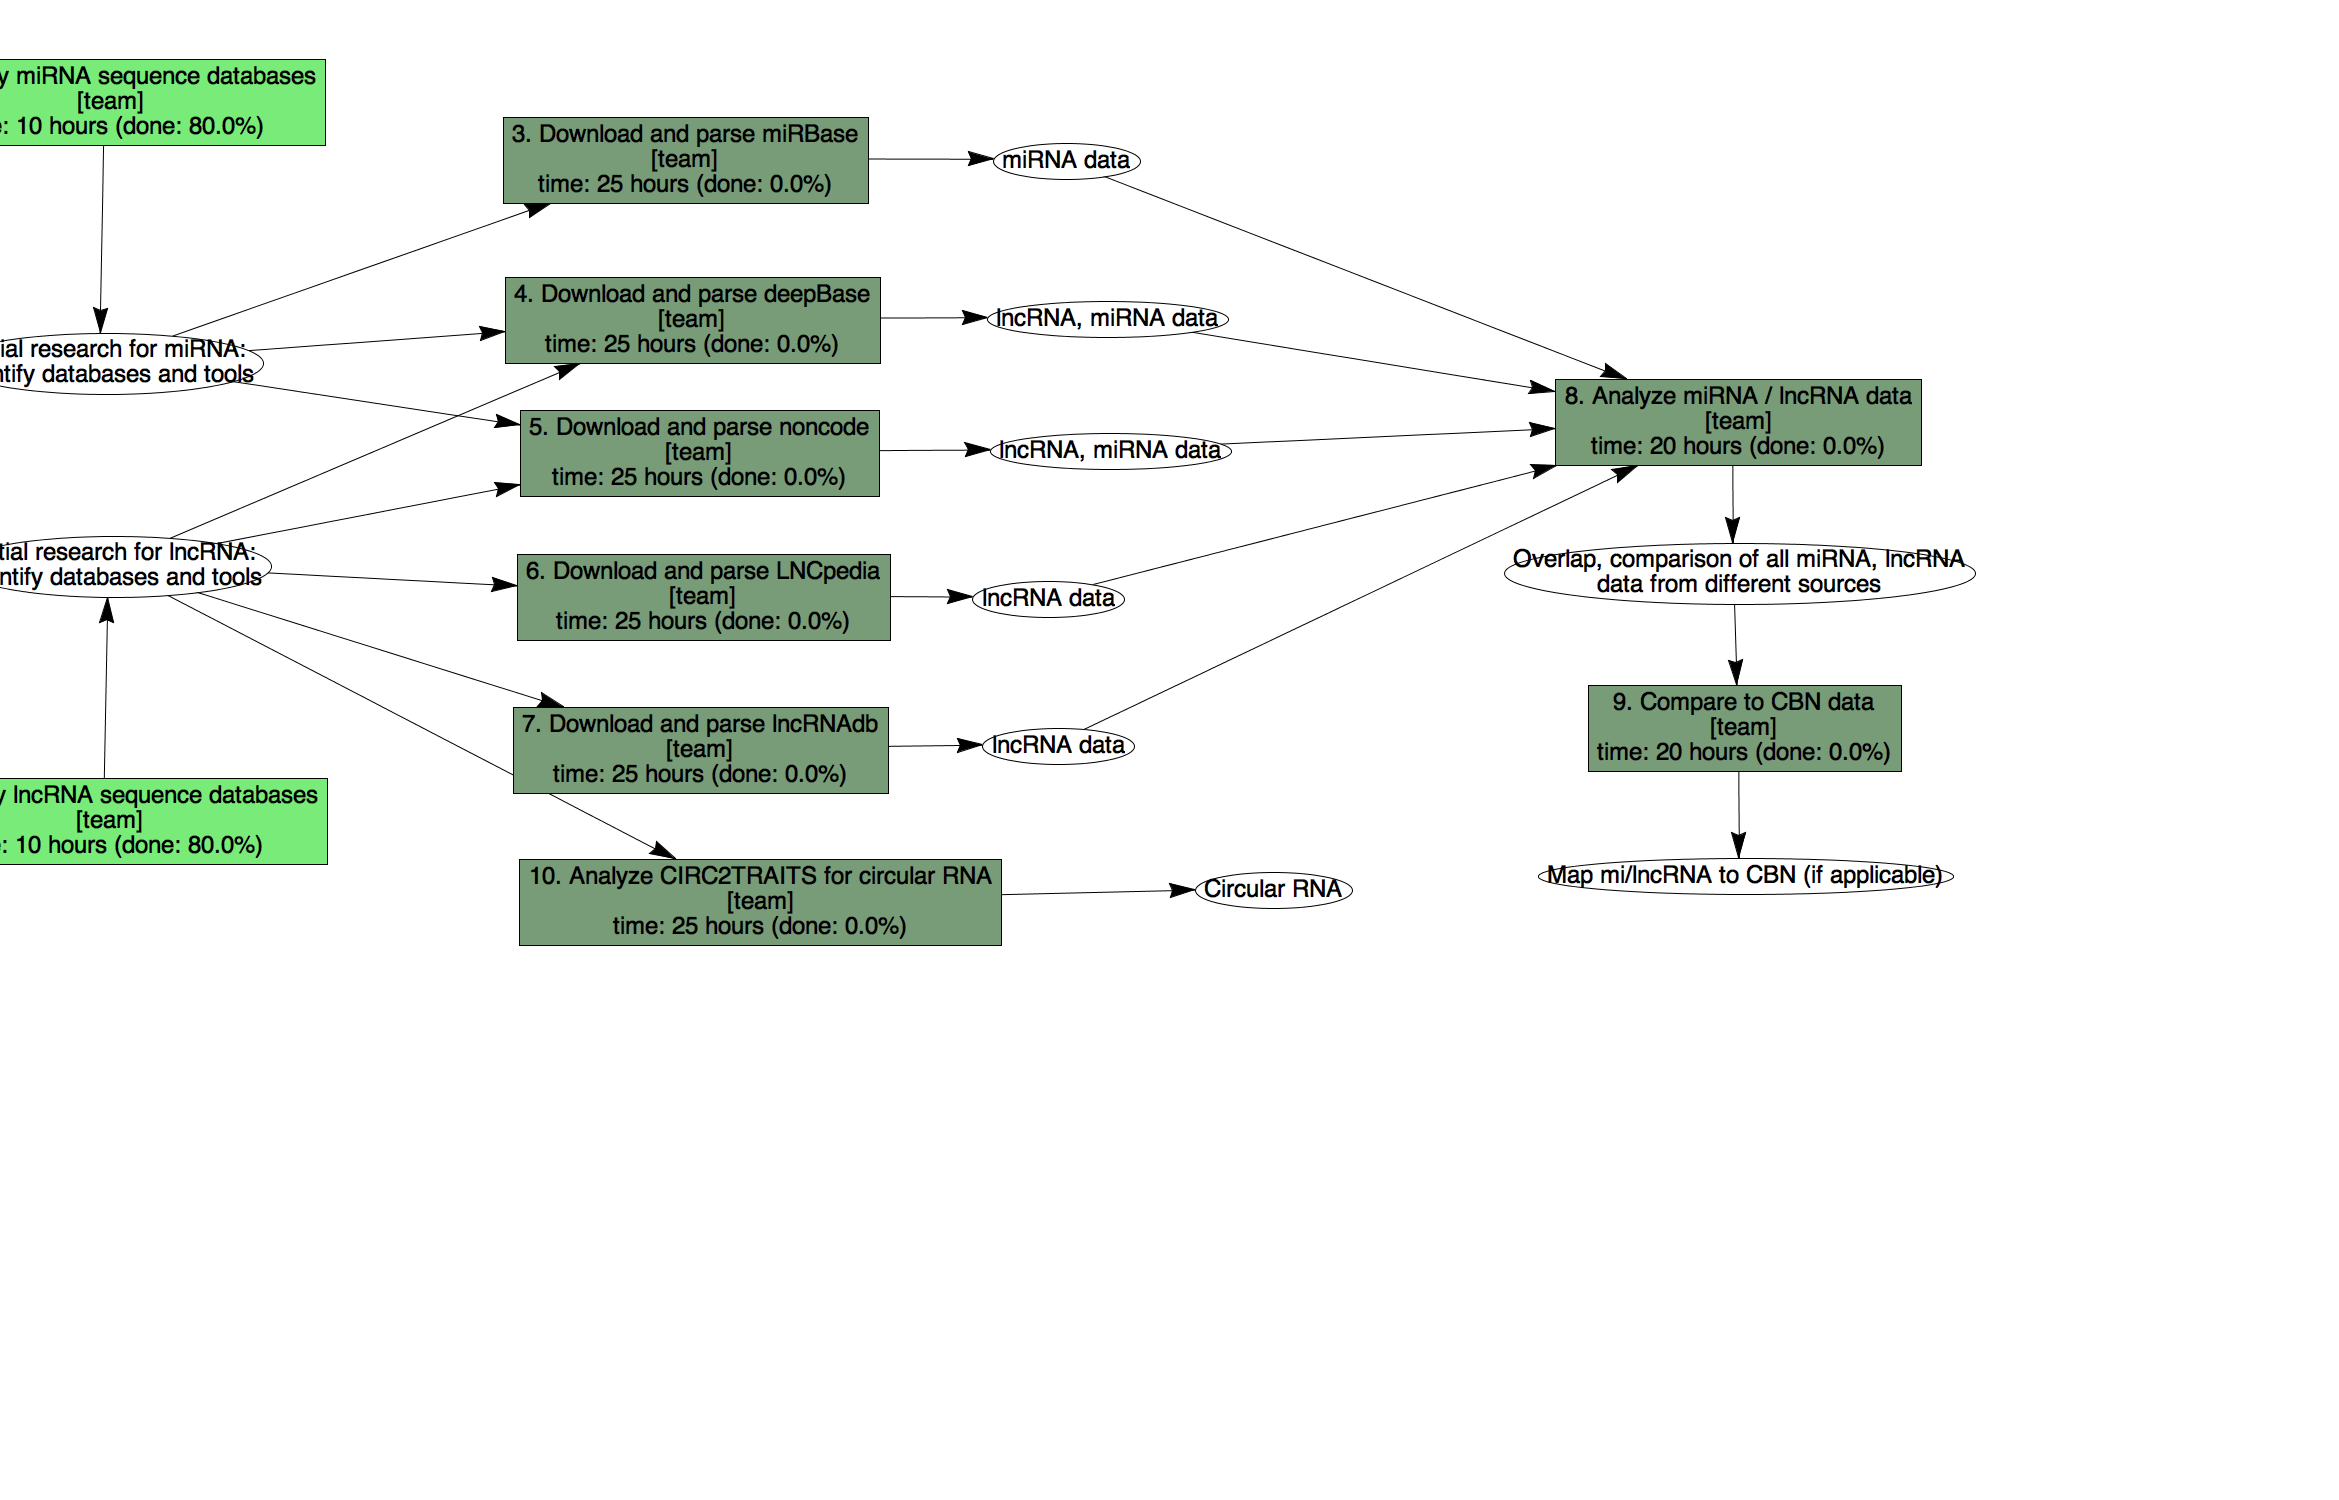
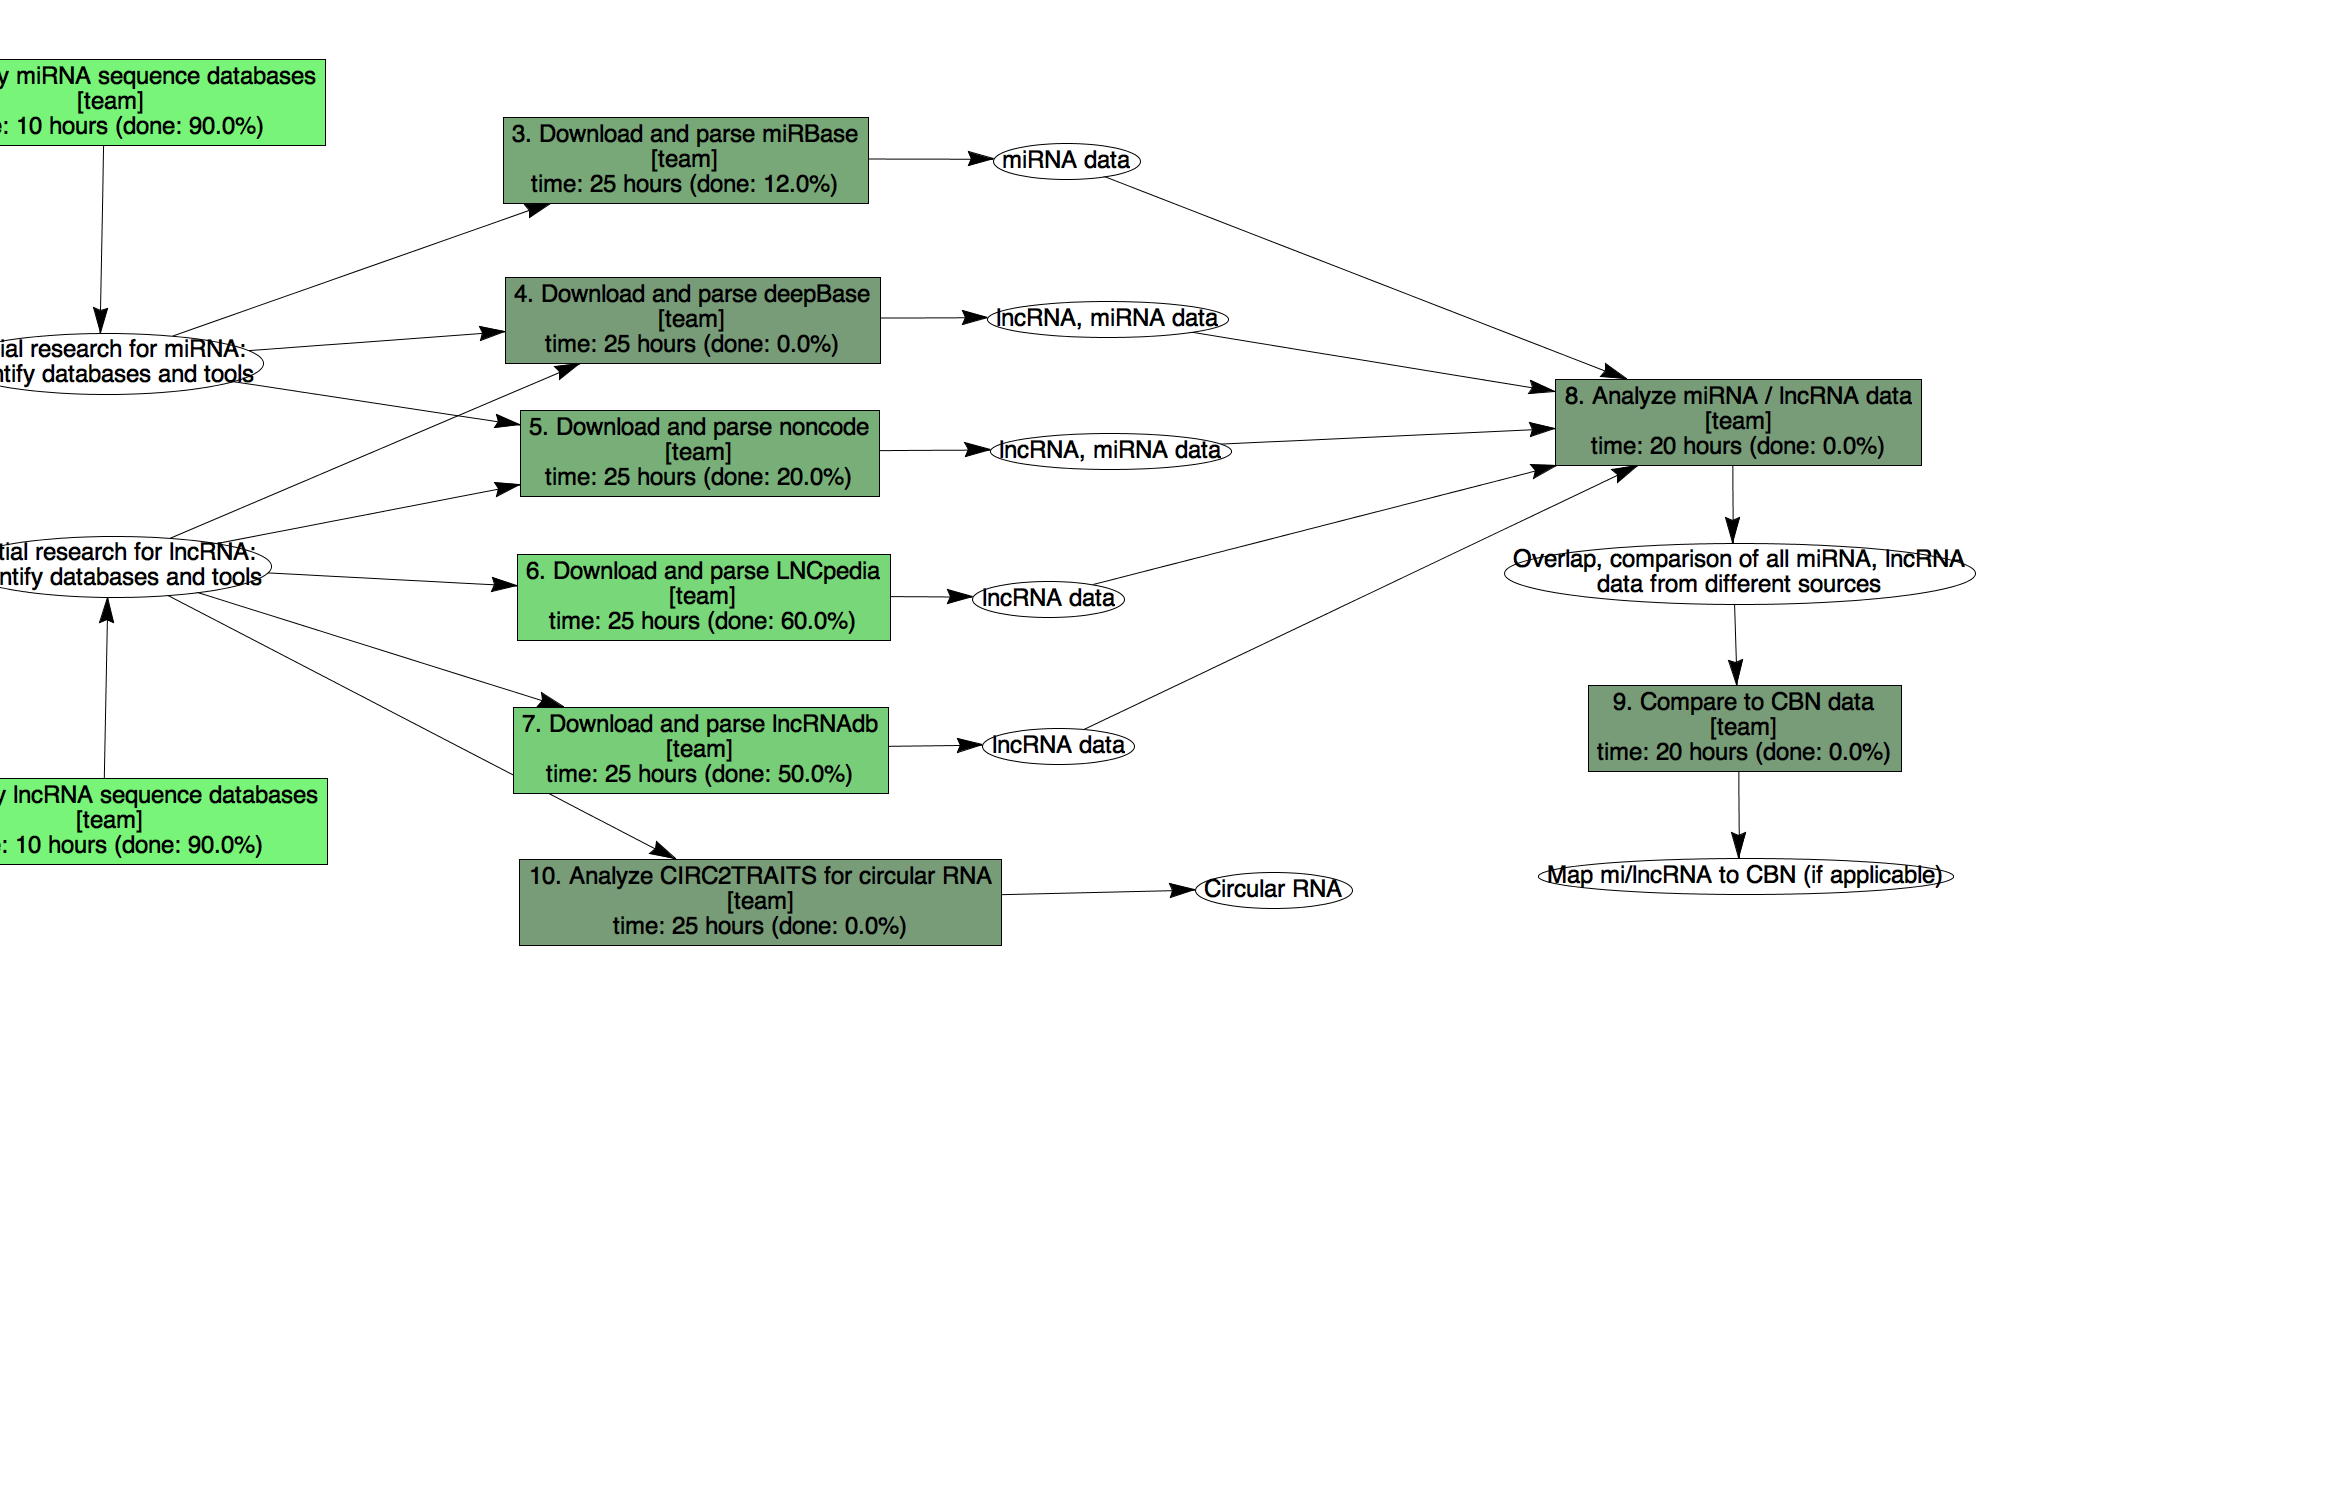
updated workflow

diff --git a/www/workflow/index.html b/www/workflow/index.html
@@ -1,13 +1,13 @@
 <h2>Work infos</h2><ul>
-<li><b>team</b> work: 1385.00 h , done: 145.85 (10.53%)</li>
-<img src='workflow/main.png' usemap='#main.png_map' width='150%'>
+<li><b>team</b> work: 1400.00 h , done: 241.75 (17.27%)</li>
+<img src='main.png' usemap='#main.png_map'>
 <map name='main.png_map'>
-	<area shape='poly'  href='workflow/tn00001..html' target="_blank" />
-	<area shape='poly'  href='workflow/tn00008..html' target="_blank"  />
-	<area shape='poly' coords='1910,434,2236,434,2236,520,1910,520,1910,434,1910,434,1910,434' href='workflow/tn00027..html' target="_blank"  />
-	<area shape='poly' coords='-60,59,279,59,279,145,-60,145,-60,59,-60,59,-60,59' href='workflow/tn00000..html' target="_blank"  />
-	<area shape='poly' coords='-59,735,463,735,463,821,-59,821,-59,735,-59,735,-59,735' href='workflow/tn00010..html' target="_blank"  />
-	<area shape='poly' coords='-55,428,443,428,443,514,-55,514,-55,428,-55,428,-55,428' href='workflow/tn00006..html' target="_blank"  />
-	<area shape='poly' coords='-55,282,359,282,359,393,-55,393,-55,282,-55,282,-55,282' href='workflow/tn00004..html' target="_blank"  />
+	<area shape='poly' coords='-57,170,269,170,269,256,-57,256,-57,170,-57,170,-57,170' href='tn00001..html' />
+	<area shape='poly' coords='-55,554,413,554,413,665,-55,665,-55,554,-55,554,-55,554' href='tn00008..html' />
+	<area shape='poly' coords='1910,434,2236,434,2236,520,1910,520,1910,434,1910,434,1910,434' href='tn00027..html' />
+	<area shape='poly' coords='-60,59,279,59,279,145,-60,145,-60,59,-60,59,-60,59' href='tn00000..html' />
+	<area shape='poly' coords='-59,735,463,735,463,821,-59,821,-59,735,-59,735,-59,735' href='tn00010..html' />
+	<area shape='poly' coords='-55,428,443,428,443,514,-55,514,-55,428,-55,428,-55,428' href='tn00006..html' />
+	<area shape='poly' coords='-55,282,359,282,359,393,-55,393,-55,282,-55,282,-55,282' href='tn00004..html' />
 </map>
 

diff --git a/www/workflow/tn00000..html b/www/workflow/tn00000..html
@@ -1,6 +1,4 @@
-<div class="container">
-	<img src='tn00000.png' usemap='#tn00000.png_map' width="100%">
-	<map name='tn00000.png_map'>
-	</map>
-</div>
+<img src='tn00000.png' usemap='#tn00000.png_map'>
+<map name='tn00000.png_map'>
+</map>
 
